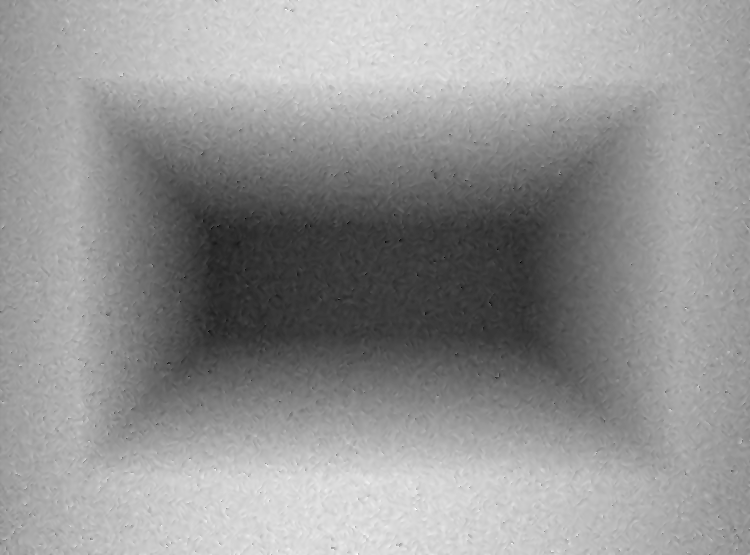
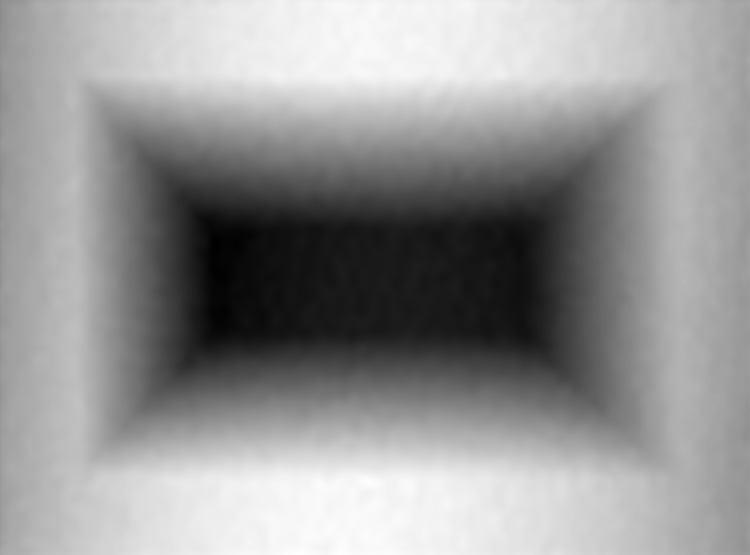
Made the 'Basic usage' section show filtering

Changed region(s): [[0.2147, 0.3063, 0.7667, 0.7045], [0.1227, 0.827, 0.7973, 1.0], [0.184, 0.0, 0.7973, 0.1838]]

diff --git a/README.md b/README.md
@@ -5,50 +5,71 @@ images. It is written entirely in Rust, with the goal of being a single cohesive
 alternative to the various scattered MATLAB implementations of algorithms from the scientific
 literature.
 
+Windowed Fourier Filtering and Quality Guided Phase Unwrapping are the 2 core algorithms used,
+but a couple of other unwrapping algorithms are included. See [Algorithms](#algorithms) below.
+
 ## Basic usage
 
 Run the tool with a wrapped phase input (supports common image formats & numpy .npy) and any
-specified output (numpy .npy), and it will proceed with default settings.
+specified output (numpy .npy), and it will proceed with default settings. For example, to
+filter without unwrapping we specify only the `-f <FILE>` output:
 
-wrapped.png
+input: wrapped.png
 ![input: wrapped.png](images/cropped_pyramid_w.png)
 
 ```
-> phunwrap wrapped.png -u unwrapped.npy
+> phunwrap wrapped.png -f filtered.npy
 Loaded wrapped phase array of shape (555, 750)
 Filtering (1s) [#####################################################] 100% (0s)
-Done in 1.0258435 seconds
+Done in 1.0451843 seconds
+```
+
+output: filtered.npy
+![output: filtered.npy](images/cropped_pyramid_f.png)
+
+Some improvement clearly, but there is a lot of noise in the original image so we will need
+to filter more aggressively. Let's use a large 32x32 filtering window, and while we're at it
+we can increase the window stride too, to make filtering run more quickly.
+
+```
+> phunwrap wrapped.png -f filtered.npy --wsize 32 --wstride 4
+Loaded wrapped phase array of shape (555, 750)
+Filtering (0s) [#####################################################] 100% (0s)
+Done in 0.42000678 seconds
+```
+
+output: filtered.npy
+![output: filtered.npy](images/cropped_pyramid_f_bigwin.png)
+
+Much nicer! We can proceed with unwrapping now and we should get a good result. Replace the
+`-f <FILE>` output with `-u <FILE>` to get the unwrapped phase:
+
+```
+> phunwrap wrapped.png -u uphase.npy --wsize 32 --wstride 4
+Loaded wrapped phase array of shape (555, 750)
+Filtering (0s) [#####################################################] 100% (0s)
+Done in 0.42410573 seconds
 Unwrapping (0s) [####################################################] 100% (0s)
-Done in 0.170988 seconds
+Done in 0.12089001 seconds
 ```
 
-unwrapped.npy
-![output: unwrapped.npy](images/cropped_pyramid_u_default.png)
+output: uphase.npy
+![output: uphase.npy](images/cropped_pyramid_u_bigwin.png)
 
-It's difficult to tell whether the unwrap is good, because it ranges over such depth that we
-can't see any detail. Let's try again, but this time with the option to remove an underlying
-ramp.
+Ok... we can't see much here. That's because there's an underlying phase gradient across the
+whole image making the result span a very large depth range. What we need to do is remove
+that gradient, so we can see just the depth of surface features. This can be done with the
+--subtract-plane option:
 
 ```
-> phunwrap wrapped.png -u unwrapped.npy --subtract-plane
+> phunwrap wrapped.png -u uphase.npy --wsize 32 --wstride 4 --subtract-plane
 ...
 ```
 
-unwrapped.npy
-![output: unwrapped.npy](images/cropped_pyramid_u_subplane.png)
+output: uphase.npy
+![output: uphase.npy](images/cropped_pyramid_u_subplane.png)
 
-Nice, but there's clearly a lot of noise in the original image that has been carried through
-to the output. Let's increase the size of the filtering window, and while we're at it we can
-increase the window stride too, so the filtering will run much more quickly.
-
-```
-> phunwrap wrapped.png -u unwrapped.npy --subtract-plane --wsize 32 --wstride 4
-```
-
-unwrapped.npy
-![output: unwrapped.npy](images/cropped_pyramid_u_bigwin.png)
-
-Much better.
+Looks good.
 
 The tool has overview help text (-h) and detailed help text (--help) which should enable you
 to use it without further reference. The overview is reproduced here:
@@ -61,19 +82,29 @@ Arguments:
 
 Options:
   -r, --region <REGION>
-          Optional rectangular region to crop the input to, imagemagick-style format. E.g. 640x480+100+10 will crop to a 640x480 region starting at (100, 10)
+          Optional rectangular region to crop the input to, imagemagick-style
+          format. E.g. 640x480+100+10 will crop to a 640x480 region starting at
+          (100, 10)
       --window-size <WINDOW_SIZE>
-          Window size in pixels used for windowed Fourier filtering [default: 12] [aliases: wsize]
+          Window size in pixels used for windowed Fourier filtering
+          [default: 12] [aliases: wsize]
       --window-stride <WINDOW_STRIDE>
-          Shift in pixels from one window to the next [default: 1] [aliases: wstride]
+          Shift in pixels from one window to the next
+          [default: 1] [aliases: wstride]
   -t, --threshold <THRESHOLD>
-          Threshold used for removing Fourier coefficients of small magnitude [default: 0.7]
+          Threshold used for removing Fourier coefficients of small magnitude
+          [default: 0.7]
       --unwrap-method <METHOD>
-          Method to use for unwrapping the filtered phase [default: qgp] [possible values: dct, tie, qgp]
+          Method to use for unwrapping the filtered phase
+          [default: qgp] [possible values: dct, tie, qgp]
       --subtract-plane
-          Subtract a phase ramp, f(x,y) = (ax+by+c)/(dx+ey+1), from the unwrapped phase. Coefficients can be supplied with the --plane-coeffs option, otherwise they will be found by least-squares fitting to the data, and printed
+          Subtract a phase ramp, f(x,y) = (ax+by+c)/(dx+ey+1), from the
+          unwrapped phase. Coefficients can be supplied with the --plane-coeffs
+          option, otherwise they will be found by least-squares fitting to the
+          data, and printed
       --plane-coeffs <COEFF> <COEFF> <COEFF> <COEFF> <COEFF>
-          The 5 coefficients of f(x,y) = (ax+by+c)/(dx+ey+1). See --subtract-plane
+          The 5 coefficients of f(x,y) = (ax+by+c)/(dx+ey+1).
+          See --subtract-plane
   -u, --unwrapped <FILE>
           Output the unwrapped phase
   -q, --quality <FILE>
@@ -83,7 +114,10 @@ Options:
   -c, --csv <FILE>
           Output data as a Comma-Separated Value file
       --csv-format <CSV_FORMAT>
-          Specify the contents of the CSV file as a character sequence. Valid chars are x, y, u (unwrapped), f (filtered), and q (quality). For example, pass `--csv-format xyuq` and the CSV file will contain only those values and in that order [default: xyufq]
+          Specify the contents of the CSV file as a character sequence. Valid
+          chars are x, y, u (unwrapped), f (filtered), and q (quality). For
+          example, pass `--csv-format xyuq` and the CSV file will contain only
+          those values and in that order [default: xyufq]
   -h, --help
           Print help (see more with '--help')
 ```
